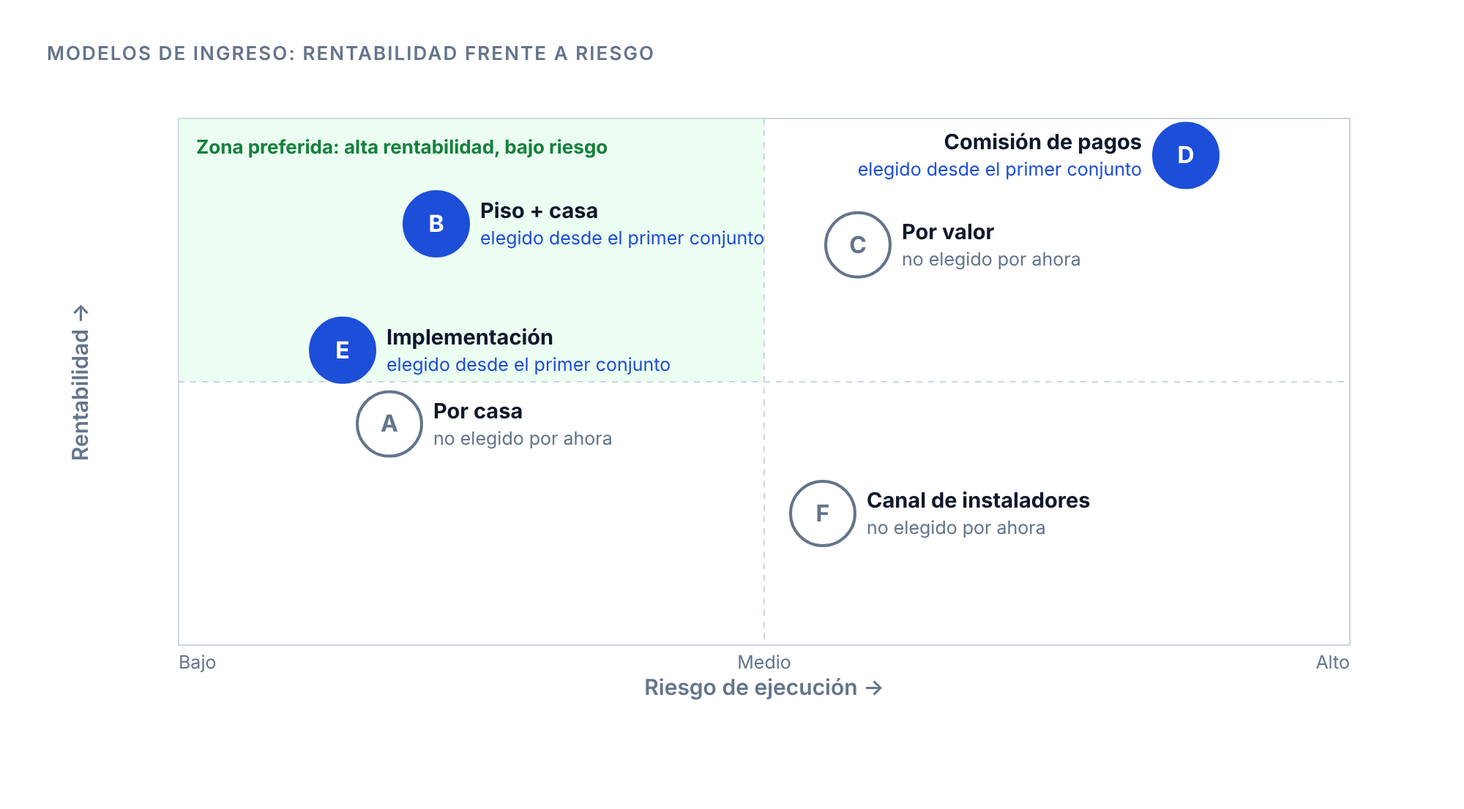
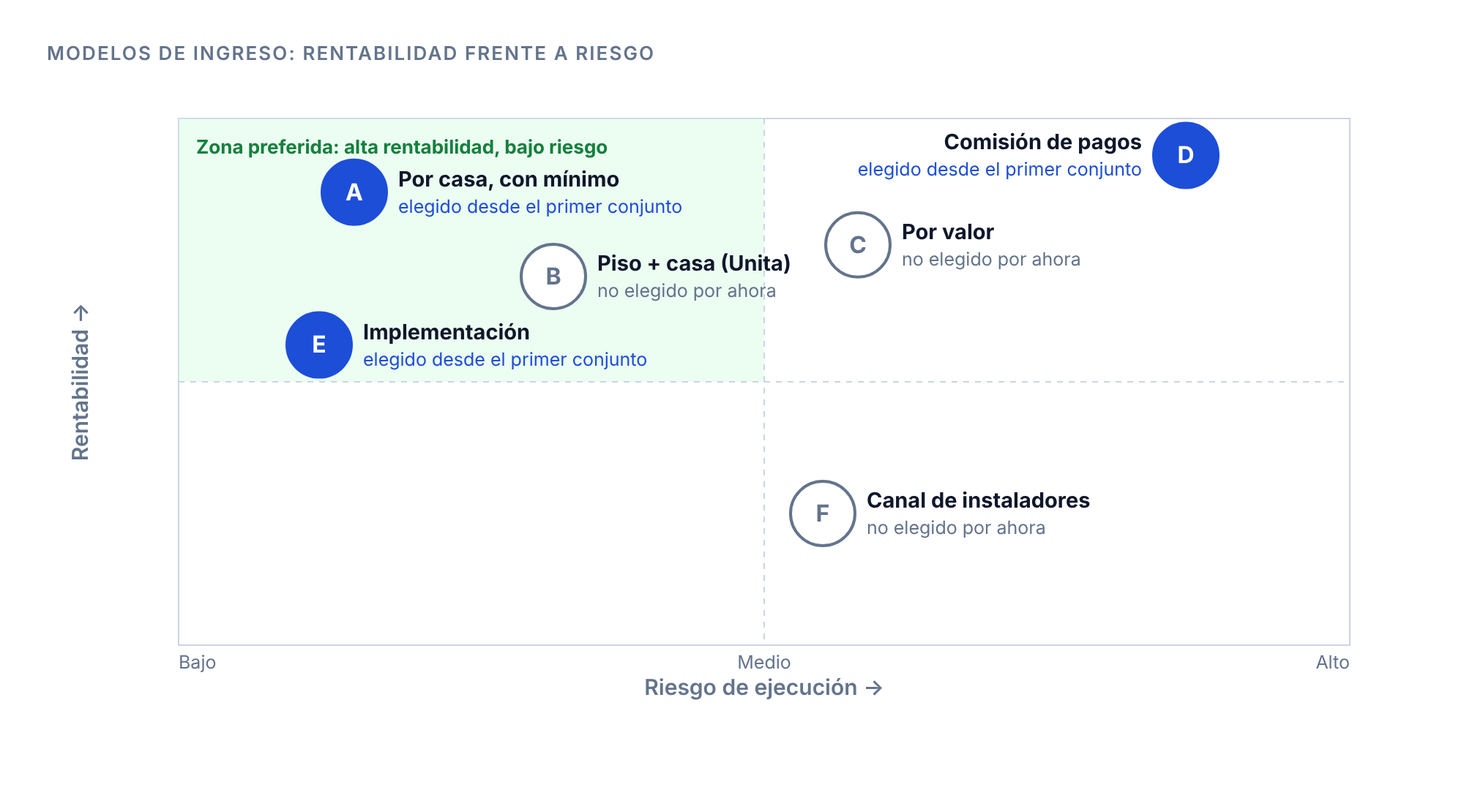
Roadmap: precio propio por casa con mínimo y propuesta D-013
$16.000 por casa al mes con mínimo de $1.200.000 por conjunto, en vez
del precio de Unita. Actualiza el apartado 2.9, el modelo elegido,
el presupuesto y las figuras 10, 12, 13, 14, 18, 19 y 20.

Claude-Session: https://claude.ai/code/session_012DQwra82ZAV2m5H2koZjXH

Changed region(s): [[0.217, 0.1844, 0.558, 0.3996], [0.186, 0.3689, 0.465, 0.4919], [0.248, 0.4919, 0.403, 0.5841]]

diff --git a/eafit/2026-11-roadmap-estrategia/entrega/figuras/fuente-figuras.html b/eafit/2026-11-roadmap-estrategia/entrega/figuras/fuente-figuras.html
@@ -126,7 +126,7 @@ svg text{font-family:Inter,sans-serif}
 <!-- 21 PESO EN LA CUOTA -->
 <div class="fig" id="f21">
  <div class="t">Cuánto pesa cada costo en lo que recauda el conjunto (% de la cuota)</div>
- <svg id="sv21" width="936" height="295"></svg>
+ <svg id="sv21" width="936" height="200"></svg>
 </div>
 
 <!-- 12 EXPANSION -->
@@ -259,18 +259,20 @@ el(s,'line',{x1:L+W/2,y1:T,x2:L+W/2,y2:T+H,stroke:C.line,'stroke-dasharray':'4 4
 tx(s,L+W/2,T+H+34,'Riesgo de ejecución →',{a:'middle',fw:600,fill:C.mut});
 el(s,'text',{x:28,y:T+H/2,'font-size':15,fill:C.mut,'font-weight':600,'text-anchor':'middle',transform:`rotate(-90 28 ${T+H/2})`},'Rentabilidad →');
 ['Bajo','Medio','Alto'].forEach((t,i)=>tx(s,L+W*(i*.5),T+H+16,t,{a:i==0?'start':i==1?'middle':'end',fs:12.5,fill:C.mut}));
-const P=[['A','Por casa',.18,.42,0],['B','Piso + casa',.22,.80,1],['C','Por valor',.58,.76,0],['D','Comisión de pagos',.86,.93,1],['E','Implementación',.14,.56,1],['F','Canal de instaladores',.55,.25,0]];
+const P=[['A','Por casa, con mínimo',.15,.86,1],['B','Piso + casa (Unita)',.32,.70,0],['C','Por valor',.58,.76,0],['D','Comisión de pagos',.86,.93,1],['E','Implementación',.12,.57,1],['F','Canal de instaladores',.55,.25,0]];
 P.forEach(([k,n,rx,ry,ch])=>{const x=L+rx*W,y=T+(1-ry)*H;const col=ch==1?C.ac:ch==2?C.ac2:C.mut;el(s,'circle',{cx:x,cy:y,r:22,fill:ch?col:'#fff',stroke:col,'stroke-width':2});tx(s,x,y+1,k,{a:'middle',b:'middle',fw:700,fill:ch?'#fff':col,fs:16});const lf=k=='D';const ox=lf?-30:30,an=lf?'end':'start';tx(s,x+ox,y-4,n,{fw:700,fill:C.ink,fs:14.5,a:an});tx(s,x+ox,y+14,ch==1?'elegido desde el primer conjunto':ch==2?'elegido desde la etapa 03':'no elegido por ahora',{fs:12.5,fill:ch?col:C.mut,a:an})});})();
 
 // 10 ancla
-(()=>{const s=document.getElementById('sv10');const L=250,W=520,max=20e6;const R=[['Puesto de vigilancia 24 h',17.1e6,19.6e6,C.mut],['KINO · Refugio (400 casas)',5.91e6,0,C.ac],['KINO · Villas (100 casas)',2.64e6,0,C.ac]];
+(()=>{const s=document.getElementById('sv10');const L=250,W=520,max=20e6;const R=[['Puesto de vigilancia 24 h',17.1e6,19.6e6,C.mut],['KINO · Refugio (400 casas)',6.4e6,0,C.ac],['KINO · Villas (100 casas)',1.6e6,0,C.ac]];
 R.forEach((r,i)=>{const y=20+i*66;tx(s,L-14,y+22,r[0],{a:'end',b:'middle',fw:600,fill:C.ink});el(s,'rect',{x:L,y,width:r[1]/max*W,height:44,rx:6,fill:r[3]});if(r[2])el(s,'rect',{x:L+r[1]/max*W,y,width:(r[2]-r[1])/max*W,height:44,rx:0,fill:r[3],opacity:.4});tx(s,L+(r[2]||r[1])/max*W+10,y+22,r[2]?`$${M(r[1])} a $${M(r[2])} M`:`$${M(r[1])} M`,{b:'middle',fw:700,fill:C.ink})});
-tx(s,20,236,'Villas paga el 15 % de lo que cuesta un puesto de vigilancia. Fuentes: Noticias RCN y El Espectador (2026); tarifas de KINO del capítulo 2.',{fs:13,fill:C.mut});})();
+tx(s,20,236,'Villas paga KINO con el 9 % de lo que cuesta un puesto de vigilancia. Fuentes: Noticias RCN y El Espectador (2026); precio de KINO del capítulo 2.',{fs:13,fill:C.mut});})();
 
-// 11 precio stacked
-(()=>{const s=document.getElementById('sv11');const L=250,W=560,max=6.2e6,piso=1.55e6;const R=[['Villas Campestres · 100 casas',100],['Conjunto nuevo · 200 casas',200],['Refugio Campestre · 400 casas',400]];
-R.forEach((r,i)=>{const y=20+i*62;const c=r[1]*10900;tx(s,L-14,y+21,r[0],{a:'end',b:'middle',fw:600,fill:C.ink});el(s,'rect',{x:L,y,width:piso/max*W,height:42,fill:C.ink,rx:4});el(s,'rect',{x:L+piso/max*W,y,width:c/max*W,height:42,fill:C.ac2,rx:4});tx(s,L+(piso+c)/max*W+10,y+21,`$${fmt(piso+c)}`,{b:'middle',fw:700,fill:C.ink})});
-el(s,'rect',{x:L,y:212,width:14,height:14,fill:C.ink});tx(s,L+20,224,'Piso por conjunto: $1.550.000',{fs:13.5});el(s,'rect',{x:L+260,y:212,width:14,height:14,fill:C.ac2});tx(s,L+280,224,'Casas construidas × $10.900',{fs:13.5});})();
+// 11 precio KINO frente a Unita
+(()=>{const s=document.getElementById('sv11');const L=250,W=560,max=7e6;const R=[['Villas Campestres · 100 casas',100],['Conjunto nuevo · 200 casas',200],['Refugio Campestre · 400 casas',400]];
+R.forEach((r,i)=>{const y=14+i*66;const k=Math.max(1.2e6,r[1]*16000),u=1.55e6+r[1]*10900;tx(s,L-14,y+25,r[0],{a:'end',b:'middle',fw:600,fill:C.ink});
+el(s,'rect',{x:L,y,width:k/max*W,height:24,fill:C.ac,rx:4});tx(s,L+k/max*W+10,y+12,'KINO $'+fmt(k),{b:'middle',fw:700,fill:C.ink,fs:14});
+el(s,'rect',{x:L,y:y+28,width:u/max*W,height:20,fill:C.line,rx:4});tx(s,L+u/max*W+10,y+38,'Unita $'+fmt(u),{b:'middle',fill:C.mut,fs:13})});
+tx(s,20,232,'KINO: $16.000 por casa al mes, mínimo $1.200.000. Unita: $1.550.000 por conjunto + $10.900 por casa. KINO es más barato hasta 304 casas.',{fs:13,fill:C.mut});})();
 
 // 12 expansion
 (()=>{const s=document.getElementById('sv12');arrowDef(s,'a12');const L=150,B=380,W=740,H=340;
@@ -329,7 +331,7 @@ parts.forEach((p,j)=>{const x=L+j*165;el(s,'rect',{x,y:226,width:14,height:14,fi
 tx(s,20,272,'El trabajo de los socios vale $3.120.000 al mes, pero hoy no sale de la caja. La alternativa barata es la del apartado 5.5 (en efectivo).',{fs:13,fill:C.mut});})();
 
 // 15 escenarios
-(()=>{const s=document.getElementById('sv15');const L=70,B=300,H=260,max=300;const sc=[['Conservador',145.45],['Base',256.3],['Optimista',284.05]];const ce=40.14,cs=109.58;
+(()=>{const s=document.getElementById('sv15');const L=70,B=300,H=260,max=300;const sc=[['Conservador',134.1],['Base',231.7],['Optimista',256.8]];const ce=40.14,cs=109.58;
 [0,50,100,150,200,250,300].forEach(v=>{const y=B-v/max*H;el(s,'line',{x1:L,y1:y,x2:900,y2:y,stroke:C.soft});tx(s,L-10,y,String(v),{a:'end',b:'middle',fs:12.5,fill:C.mut})});
 sc.forEach((r,i)=>{const x=L+60+i*260;const h=r[1]/max*H;el(s,'rect',{x,y:B-h,width:110,height:h,fill:i==1?C.ac:C.acs,stroke:C.ac,rx:4});tx(s,x+55,B-h-10,'$'+r[1].toFixed(1).replace('.',',')+' M',{a:'middle',fw:700,fill:C.ink});tx(s,x+55,B+22,r[0],{a:'middle',fw:i==1?700:600,fill:C.ink})});
 let lg=0;const ln=(v,c,t)=>{const y=B-v/max*H;el(s,'line',{x1:L,y1:y,x2:900,y2:y,stroke:c,'stroke-width':2.2,'stroke-dasharray':'7 5'});el(s,'line',{x1:L+lg,y1:B+48,x2:L+lg+28,y2:B+48,stroke:c,'stroke-width':2.2,'stroke-dasharray':'7 5'});tx(s,L+lg+36,B+53,t,{fs:13.5,fw:700,fill:c});lg+=330};
@@ -338,8 +340,8 @@ tx(s,L,B+84,'Los tres escenarios cubren los dos costos. El base cumple la meta d
 
 // 16 flujo acumulado
 (()=>{const s=document.getElementById('sv16');const ms=['nov','dic','ene','feb','mar','abr','may','jun','jul','ago','sep','oct','nov','dic'];
-const E=[-3981735,-3563470,-6345205,-76940,6191325,19589590,36917855,58176120,83364385,112482650,138400915,164319180,190237445,216155710];
-const S=[-7569735,-13939470,-20309205,-17628940,-14948675,-8338410,2201855,16672120,35072385,57402650,79732915,102063180,124393445,146723710];
+const E=[-3981735,-3563470,-6345205,-626940,5091325,17409590,33127855,52246120,74764385,100682650,123400915,146119180,168837445,191555710];
+const S=[-7569735,-13939470,-20309205,-18178940,-16048675,-10518410,-1588145,10742120,26472385,45602650,64732915,83863180,102993445,122123710];
 const L=80,T=20,W=740,H=330,min=-50e6,max=250e6;const y=v=>T+(max-v)/(max-min)*H;const x=i=>L+i*(W/13);
 [-50,0,50,100,150,200,250].forEach(v=>{el(s,'line',{x1:L,y1:y(v*1e6),x2:L+W,y2:y(v*1e6),stroke:v==0?C.ink:C.soft,'stroke-width':v==0?1.5:1});tx(s,L-10,y(v*1e6),String(v),{a:'end',b:'middle',fs:12.5,fill:C.mut})});
 ms.forEach((m,i)=>tx(s,x(i),T+H+20,m,{a:'middle',fs:12.5,fill:C.mut}));tx(s,x(0.5),T+H+40,'2026',{a:'middle',fs:12,fw:700,fill:C.ink});tx(s,x(8),T+H+40,'2027',{a:'middle',fs:12,fw:700,fill:C.ink});
@@ -351,14 +353,14 @@ tx(s,x(2),y(S[2])+24,'punto más bajo: '+M(S[2]),{fs:12.5,fill:C.ba,fw:600,a:'mi
 el(s,'line',{x1:L,y1:T+H+58,x2:L+24,y2:T+H+58,stroke:C.ok,'stroke-width':3});tx(s,L+30,T+H+62,'En efectivo',{fs:13.5});el(s,'line',{x1:L+150,y1:T+H+58,x2:L+174,y2:T+H+58,stroke:C.ba,'stroke-width':3});tx(s,L+180,T+H+62,'Sostenimiento (incluye el trabajo de los socios)',{fs:13.5});})();
 
 // 17 equilibrio
-(()=>{const s=document.getElementById('sv17');const L=280,W=560,max=30e6;const R=[['Villas Campestres sola',2.74e6],['Villas + Refugio',9.05e6],['Villas + Refugio + 5 nuevos',28.7e6]];
-R.forEach((r,i)=>{const yy=20+i*64;tx(s,L-14,yy+22,r[0],{a:'end',b:'middle',fw:600,fill:C.ink});el(s,'rect',{x:L,y:yy,width:r[1]/max*W,height:44,rx:5,fill:C.ac});const lx=L+r[1]/max*W+10;tx(s,i==2?lx-20:lx+ (i==0?60:0),yy+22,'$'+M(r[1])+' M',{b:'middle',fw:700,fill:i==2?'#fff':C.ink,a:i==2?'end':'start'})});
+(()=>{const s=document.getElementById('sv17');const L=280,W=560,max=27e6;const R=[['Villas Campestres sola',1.7e6],['Villas + Refugio',8.5e6],['Villas + Refugio + 5 nuevos',25.5e6]];
+R.forEach((r,i)=>{const yy=20+i*64;tx(s,L-14,yy+22,r[0],{a:'end',b:'middle',fw:600,fill:C.ink});el(s,'rect',{x:L,y:yy,width:r[1]/max*W,height:44,rx:5,fill:C.ac});const lx=L+r[1]/max*W+10;tx(s,i==2?lx-20:(i==0?L+150:lx),yy+22,'$'+M(r[1])+' M',{b:'middle',fw:700,fill:i==2?'#fff':C.ink,a:i==2?'end':'start'})});
 const ln=(v,c,t,o,an)=>{const x=L+v/max*W;el(s,'line',{x1:x,y1:10,x2:x,y2:214,stroke:c,'stroke-width':2.2,'stroke-dasharray':'6 4'});tx(s,x,236+o,t,{a:an,fs:13,fw:700,fill:c})};
 ln(2781735,C.ok,'Efectivo: $2,8 M',0,'end');ln(6369735,C.ba,'Sostenimiento: $6,4 M',0,'start');
 tx(s,20,272,'Villas y Refugio juntos cubren los dos costos. Por eso la penetración de enero es la tarea con más efecto.',{fs:13,fill:C.mut});})();
 
 // 21 peso en la cuota
-(()=>{const s=document.getElementById('sv21');const L=330,W=480,max=50;const R=[['Puesto de vigilancia · Villas (100 casas)',38,43.6,C.mut],['Puesto de vigilancia · Refugio (400 casas)',9.5,10.9,C.mut],['KINO · Villas',5.9,0,C.ac],['KINO · conjunto nuevo (200 casas)',4.1,0,C.ac],['KINO · Refugio',3.3,0,C.ac]];
+(()=>{const s=document.getElementById('sv21');const L=330,W=480,max=50;const R=[['Puesto de vigilancia · Villas (100 casas)',38,43.6,C.mut],['Puesto de vigilancia · Refugio (400 casas)',9.5,10.9,C.mut],['KINO · cualquier conjunto',3.6,0,C.ac]];
 R.forEach((r,i)=>{const y=14+i*50;tx(s,L-14,y+17,r[0],{a:'end',b:'middle',fw:600,fill:C.ink,fs:14});el(s,'rect',{x:L,y,width:r[1]/max*W,height:34,rx:5,fill:r[3]});if(r[2])el(s,'rect',{x:L+r[1]/max*W,y,width:(r[2]-r[1])/max*W,height:34,fill:r[3],opacity:.4});const v=r[2]?`${String(r[1]).replace('.',',')} % a ${String(r[2]).replace('.',',')} %`:`${String(r[1]).replace('.',',')} %`;tx(s,L+(r[2]||r[1])/max*W+10,y+17,v,{b:'middle',fw:700,fill:C.ink})});
-tx(s,20,280,'Parte de lo que recauda el conjunto con una cuota de $450.000 por casa. Vigilancia: $17,1 a $19,6 M al mes (Noticias RCN y El Espectador, 2026).',{fs:13,fill:C.mut});})();
+tx(s,20,180,'Parte de lo que recauda el conjunto con una cuota de $450.000 por casa. Vigilancia: $17,1 a $19,6 M al mes (Noticias RCN y El Espectador, 2026).',{fs:13,fill:C.mut});})();
 </script></body></html>

diff --git a/eafit/2026-11-roadmap-estrategia/entrega/KINO_Roadmap-estrategia-presupuesto.md b/eafit/2026-11-roadmap-estrategia/entrega/KINO_Roadmap-estrategia-presupuesto.md
@@ -17,10 +17,10 @@ KINO es una plataforma de control de acceso para conjuntos cerrados. Hoy opera e
 | ¿Qué resolvemos? | Quien conoce a la visita (el residente) no tiene autoridad para dejarla entrar, y quien tiene autoridad (portería) no la conoce |
 | ¿A quién vendemos? | Solo a la administración del conjunto. Primero, a conjuntos campestres del oriente antioqueño con hardware HikCentral |
 | ¿En qué orden crecemos? | Villas Campestres y Refugio Campestre en diciembre de 2026 y enero de 2027; 5 conjuntos nuevos del oriente antioqueño en el primer trimestre de 2027; después, el Valle de Aburrá |
-| ¿Cómo cobramos? | Piso por conjunto + cobro por casa construida + implementación única + comisión por cada pago de la cuota en la app, desde el primer conjunto |
+| ¿Cómo cobramos? | Cobro por casa construida, con un mínimo por conjunto + implementación única + comisión por cada pago de la cuota en la app, desde el primer conjunto |
 | ¿Cuándo está lista la app? | En diciembre de 2026, completa y con pagos. En enero de 2027, el 80 % de las casas de Villas y Refugio la usa |
-| ¿Cuánto cobramos? | $1.550.000 por conjunto + $10.900 por casa al mes, entre el 3,3 % y el 5,9 % de la cuota de administración |
-| ¿Cuánto cuesta y cuándo se sostiene? | $2,8 millones al mes en efectivo ($1,4 millones con la alternativa más barata). Villas y Refugio lo cubren desde febrero de 2027. Escenario base a diciembre de 2027: +$216 millones en efectivo |
+| ¿Cuánto cobramos? | $16.000 por casa al mes, con un mínimo de $1.200.000 por conjunto: el 3,6 % de la cuota de administración |
+| ¿Cuánto cuesta y cuándo se sostiene? | $2,8 millones al mes en efectivo ($1,4 millones con la alternativa más barata). Villas y Refugio lo cubren desde febrero de 2027. Escenario base a diciembre de 2027: +$192 millones en efectivo |
 
 ![Figura 1. Mapa del documento. Cada capítulo responde una pregunta.](figuras/f01.png){width=100%}
 
@@ -84,7 +84,7 @@ El recorrido muestra quién hace qué, desde que el residente abre la app hasta 
 
 # 2. Salida al mercado
 
-> **En una frase.** KINO vende a la administración. Primero entra completo en Villas Campestres y Refugio Campestre, luego cierra 5 conjuntos nuevos del oriente antioqueño, y cobra por conjunto, por casa y por cada pago de la cuota.
+> **En una frase.** KINO vende a la administración. Primero entra completo en Villas Campestres y Refugio Campestre, luego cierra 5 conjuntos nuevos del oriente antioqueño, y cobra por casa y por cada pago de la cuota.
 
 ## 2.1 Quién compra y quién decide
 
@@ -160,8 +160,8 @@ El equipo evaluó seis formas de cobrar. La figura 10 las ubica por rentabilidad
 
 | Modelo | Cómo cobra | Rentabilidad | Riesgo |
 |---|---|---|---|
-| A · Por casa | Una tarifa por casa construida | Media: un conjunto pequeño casi no paga | Bajo |
-| **B · Piso + casa** | Una tarifa fija por conjunto más una tarifa por casa | Alta: el piso cubre el soporte de cada conjunto | Bajo |
+| **A · Por casa, con mínimo** | Una tarifa por casa construida y un mínimo por conjunto | Alta: el mínimo cubre el soporte del conjunto pequeño | Bajo |
+| B · Piso + casa | Una tarifa fija por conjunto más una tarifa por casa (el modelo de Unita [5]) | Alta | Bajo, pero castiga al conjunto pequeño |
 | C · Por valor | Una fracción del costo de un puesto de vigilancia | Alta | Medio: exige probar el ahorro en portería |
 | **D · Comisión de pagos** | Margen sobre la pasarela cuando el residente paga la cuota de administración en la app | La más alta a escala: crece sin trabajo extra | Alto: exige alianza con la pasarela y el módulo de pagos |
 | **E · Implementación** | Cobro único al empezar | Media: da caja al inicio y filtra clientes | Bajo |
@@ -171,7 +171,7 @@ Para el modelo D, la pasarela Wompi cobra 2,65 % + $700 + IVA en pagos en línea
 
 **Descartados.** Cobrar a la visita (recibe el KEY sin cuenta). Cobrar al residente (solo compra la administración). Marca blanca (KINO mantiene su marca). Vender datos de ingresos (Ley 1581 de 2012 [17]).
 
-> **Modelo elegido.** B + D + E desde el primer conjunto.
+> **Modelo elegido.** A con mínimo + D + E desde el primer conjunto.
 
 **Costo marginal.** Una casa más casi no sube el costo de KINO: la infraestructura y el trabajo son fijos (capítulo 5). Después del punto de equilibrio, cada peso nuevo es margen (inferido).
 
@@ -197,27 +197,29 @@ El residente paga la cuota de administración desde la app. El dinero va a la cu
 
 ## 2.9 Precio
 
-> **Precio.** $1.550.000 al mes por conjunto + $10.900 al mes por casa construida + $3.200.000 de implementación, una vez + $2.000 por cada pago de la cuota en la app (margen por decidir).
+> **Precio.** $16.000 al mes por casa construida, con un mínimo de $1.200.000 al mes por conjunto + $3.200.000 de implementación, una vez + $2.000 por cada pago de la cuota en la app (margen por decidir).
 
 El precio se justifica con tres referencias:
 
 | Referencia | Qué dice | Dato |
 |---|---|---|
-| Piso | Lo que cuesta atender a los conjuntos | $2,8 millones al mes en efectivo; $6,4 millones con el trabajo de los socios (capítulo 5) |
+| Costo | Lo que cuesta atender a los conjuntos | $2,8 millones al mes en efectivo; $6,4 millones con el trabajo de los socios (capítulo 5) |
 | Techo | Lo que el residente ya paga y lo que el conjunto gasta en portería | Cuota de administración promedio de Villas y Refugio: $450.000 al mes por casa [9]. Un puesto de vigilancia 24 horas: $17,1 a $19,6 millones al mes [10] [11] |
-| Ancla | El precio de su competidor directo, Unita | $1.550.000 al mes por conjunto + $10.900 al mes por casa [5] |
+| Ancla | El precio de su competidor directo, Unita | $1.550.000 al mes por conjunto + $10.900 al mes por casa [5]. KINO no lo copia: cobra solo por casa |
 
-KINO cobra lo mismo que Unita en piso y casa, y agrega lo que Unita no tiene: el KEY sin cuenta para la visita y la integración probada con el hardware del conjunto (apartado 1.3).
+**Por qué no copia a Unita.** Unita cobra un piso fijo más una tarifa por casa [5]. KINO cobra solo por casa, con un mínimo que cubre el soporte de un conjunto pequeño (inferido). El residente lo entiende en una línea: el 3,6 % de su cuota. Además, KINO da lo que Unita no tiene: el KEY sin cuenta para la visita y la integración probada con el hardware del conjunto (apartado 1.3).
 
-![Figura 12. Cuánto paga cada conjunto al mes con el precio de partida.](figuras/f10.png){width=100%}
-
-**Cuánto pesa KINO en la cuota.** Con una cuota de $450.000, KINO cuesta entre el 3,3 % y el 5,9 % de lo que paga cada casa. En lo que recauda cada conjunto, un puesto de vigilancia pesa entre el 9,5 % (Refugio) y el 44 % (Villas) (figura 14).
-
-| Conjunto | KINO al mes | KINO por casa | Parte de la cuota de $450.000 |
+| Conjunto | KINO al mes | Unita al mes [5] | Diferencia |
 |---|---|---|---|
-| Villas Campestres (100 casas) | $2.640.000 | $26.400 | 5,9 % |
-| Conjunto nuevo (200 casas, supuesto) | $3.730.000 | $18.650 | 4,1 % |
-| Refugio Campestre (400 casas) | $5.910.000 | $14.775 | 3,3 % |
+| Villas Campestres (100 casas) | $1.600.000 | $2.640.000 | −39 % |
+| Conjunto nuevo (200 casas, supuesto) | $3.200.000 | $3.730.000 | −14 % |
+| Refugio Campestre (400 casas) | $6.400.000 | $5.910.000 | +8 % |
+
+KINO es más barato hasta 304 casas y un poco más caro por encima. El conjunto grande recibe más visitas y colaboradores, así que recibe más valor (inferido). El mínimo de $1.200.000 aplica a conjuntos de menos de 75 casas.
+
+![Figura 12. Cuánto paga cada conjunto al mes con el precio de KINO.](figuras/f10.png){width=100%}
+
+**Cuánto pesa KINO en la cuota.** Con una cuota de $450.000, KINO cuesta el 3,6 % de lo que paga cada casa, en cualquier conjunto. En lo que recauda cada conjunto, un puesto de vigilancia pesa entre el 9,5 % (Refugio) y el 44 % (Villas) (figura 14).
 
 ![Figura 13. KINO frente al costo de un puesto de vigilancia.](figuras/f11.png){width=100%}
 
@@ -227,8 +229,8 @@ KINO cobra lo mismo que Unita en piso y casa, y agrega lo que Unita no tiene: el
 
 **Lectura (inferido).**
 
-1. El cobro por casa ($10.900) es el 2,4 % de la cuota. Es un costo bajo frente a lo que la casa ya paga en vigilancia.
-2. En un conjunto pequeño, el piso pesa más: Villas paga el 5,9 % de la cuota y Refugio el 3,3 %. Un piso más bajo para conjuntos de menos de 150 casas es una opción que se valida en la fase 6.
+1. El 3,6 % de la cuota es igual para todo conjunto: el precio no castiga al conjunto pequeño.
+2. Frente a un puesto de vigilancia, Villas paga KINO con el 9 % de lo que cuesta el puesto y Refugio con cerca del 35 %.
 3. El costo de portería propio de Villas y Refugio todavía no está. Cuando llegue, reemplaza la cifra de mercado del techo.
 
 # 3. Expansión
@@ -316,7 +318,7 @@ Fechas fijadas por el equipo el 9 de noviembre de 2026 [9]. La fecha de H4 es un
 
 # 5. Presupuesto
 
-> **En una frase.** KINO cuesta $2,8 millones al mes en efectivo. Villas y Refugio cubren ese costo desde febrero de 2027. Con los 5 conjuntos nuevos, el escenario base cierra diciembre de 2027 con +$216 millones en efectivo. Una alternativa más barata baja el costo a $1,4 millones al mes.
+> **En una frase.** KINO cuesta $2,8 millones al mes en efectivo. Villas y Refugio cubren ese costo desde febrero de 2027. Con los 5 conjuntos nuevos, el escenario base cierra diciembre de 2027 con +$192 millones en efectivo. Una alternativa más barata baja el costo a $1,4 millones al mes.
 
 Horizonte: noviembre de 2026 a diciembre de 2027 (14 meses). Fuente de dinero: capital propio de los socios [9].
 
@@ -416,19 +418,19 @@ Cinco cambios bajan el costo en efectivo a la mitad sin quitarle al proyecto nad
 
 Precio del apartado 2.9. Villas Campestres no paga implementación porque ya está implementada. Con el 50 % de las casas pagando en la app:
 
-| Conjunto | Piso + casas | Comisión de pagos | Al mes |
+| Conjunto | Casas × $16.000 | Comisión de pagos | Al mes |
 |---|---|---|---|
-| Villas Campestres (100 casas) | 2.640.000 | 50 × 2.000 = 100.000 | 2.740.000 |
-| Refugio Campestre (400 casas) | 5.910.000 | 200 × 2.000 = 400.000 | 6.310.000 |
-| Conjunto nuevo (200 casas) | 3.730.000 | 100 × 2.000 = 200.000 | 3.930.000 |
+| Villas Campestres (100 casas) | 1.600.000 | 50 × 2.000 = 100.000 | 1.700.000 |
+| Refugio Campestre (400 casas) | 6.400.000 | 200 × 2.000 = 400.000 | 6.800.000 |
+| Conjunto nuevo (200 casas) | 3.200.000 | 100 × 2.000 = 200.000 | 3.400.000 |
 
 Los escenarios cambian cuántos conjuntos nuevos entran, desde cuándo y cuántas casas pagan en la app. El precio es el mismo.
 
 | Escenario | Conjuntos nuevos | Pagos en la app | Comisión a dic 2027 | Ingreso a dic 2027 |
 |---|---|---|---|---|
-| Conservador | 2, en julio y septiembre de 2027 | 30 % | 4.500.000 | 145.450.000 |
-| **Base** | **5, uno por mes de abril a agosto de 2027** | **50 %** | **12.500.000** | **256.300.000** |
-| Optimista | 5, uno por mes de marzo a julio de 2027 | 80 % | 21.600.000 | 284.050.000 |
+| Conservador | 2, en julio y septiembre de 2027 | 30 % | 4.500.000 | 134.100.000 |
+| **Base** | **5, uno por mes de abril a agosto de 2027** | **50 %** | **12.500.000** | **231.700.000** |
+| Optimista | 5, uno por mes de marzo a julio de 2027 | 80 % | 21.600.000 | 256.800.000 |
 
 Los tres escenarios incluyen a Villas y Refugio desde febrero de 2027 y una implementación de $3.200.000 por cada conjunto nuevo y por Refugio.
 
@@ -438,22 +440,22 @@ Los tres escenarios incluyen a Villas y Refugio desde febrero de 2027 y una impl
 
 | Escenario | Ingresos | En efectivo | Sostenimiento |
 |---|---|---|---|
-| Conservador | 145.450.000 | +105.305.710 | +45.473.710 |
-| **Base** | **256.300.000** | **+216.155.710** | **+146.723.710** |
-| Optimista | 284.050.000 | +243.905.710 | +174.473.710 |
+| Conservador | 134.100.000 | +93.955.710 | +34.123.710 |
+| **Base** | **231.700.000** | **+191.555.710** | **+122.123.710** |
+| Optimista | 256.800.000 | +216.655.710 | +147.223.710 |
 
-Sin impuestos. Con la alternativa más barata, el escenario base sube a +$235,9 millones en efectivo.
+Sin impuestos. Con la alternativa más barata, el escenario base sube a +$211,3 millones en efectivo.
 
-**Cuánto capital ponen los socios.** La figura 19 muestra el acumulado del escenario base mes a mes. La caja toca su punto más bajo en enero de 2027: −$6,3 millones, que pagan los socios con capital propio. Desde marzo de 2027 la caja queda en positivo. El sostenimiento llega a −$20,3 millones en enero y queda en positivo desde mayo de 2027.
+**Cuánto capital ponen los socios.** La figura 19 muestra el acumulado del escenario base mes a mes. La caja toca su punto más bajo en enero de 2027: −$6,3 millones, que pagan los socios con capital propio. Desde marzo de 2027 la caja queda en positivo. El sostenimiento llega a −$20,3 millones en enero y queda en positivo desde junio de 2027.
 
 ![Figura 19. Escenario base: resultado acumulado mes a mes.](figuras/f16.png){width=100%}
 
 | Tramo | Ingreso al mes | Qué pasa |
 |---|---|---|
 | nov 2026 a ene 2027 | 0, más la implementación de Refugio en diciembre | Desarrollo y piloto. La caja baja a −$6,3 millones |
-| feb y mar 2027 | 9.050.000 (Villas + Refugio) | La caja se recupera |
-| abr a ago 2027 | De 12.980.000 a 28.700.000 | Entra un conjunto nuevo cada mes |
-| sep a dic 2027 | 28.700.000 | Siete conjuntos pagan |
+| feb y mar 2027 | 8.500.000 (Villas + Refugio) | La caja se recupera |
+| abr a ago 2027 | De 11.900.000 a 25.500.000 | Entra un conjunto nuevo cada mes |
+| sep a dic 2027 | 25.500.000 | Siete conjuntos pagan |
 
 Si Figma Enterprise se paga por adelantado, la caja necesita unos $7,1 millones más al inicio.
 
@@ -463,13 +465,13 @@ Si Figma Enterprise se paga por adelantado, la caja necesita unos $7,1 millones 
 
 | Conjuntos que pagan | Ingreso al mes | Cubre el efectivo (2.781.735) | Cubre el sostenimiento (6.369.735) |
 |---|---|---|---|
-| Villas Campestres sola | 2.740.000 | No: 98 % | 43 % |
-| Villas + Refugio | 9.050.000 | Sí | Sí, con +2.680.265 |
-| Villas + Refugio + 5 nuevos | 28.700.000 | Sí | Sí, con +22.330.265 |
+| Villas Campestres sola | 1.700.000 | No: 61 % | 27 % |
+| Villas + Refugio | 8.500.000 | Sí | Sí, con +2.130.265 |
+| Villas + Refugio + 5 nuevos | 25.500.000 | Sí | Sí, con +19.130.265 |
 
 **Lectura (inferido).**
 
-1. Con las herramientas actuales, Villas sola ya no cubre la caja. Con la alternativa más barata ($1,4 millones), sí.
+1. Villas sola no cubre la caja con las herramientas actuales ($1,7 millones frente a $2,8 millones). Con la alternativa más barata ($1,4 millones), sí.
 2. Villas y Refugio juntos cubren el sostenimiento completo desde febrero de 2027. Por eso la penetración de enero (apartado 2.4) es la tarea con más efecto en el presupuesto.
 3. La comisión de pagos suma $12,5 millones en el escenario base, el 5 % del ingreso. Su valor está en que el residente vuelve a la app cada mes, no en el ingreso.
 4. El riesgo mayor es la capacidad: implementar 5 conjuntos entre abril y agosto pide el doble de horas de hoy.
@@ -511,7 +513,7 @@ No hay líneas base todavía. Cada indicador dice cómo se mide y una meta inici
 | Técnica | Errores de sincronización | Errores por semana | Umbral para pasar a la etapa 02 |
 | Negocio | Embudo comercial | Conjuntos contactados, propuestas y contratos | 5 contratos firmados al 31 de marzo de 2027 |
 | Negocio | Tasa de cierre | Propuestas aceptadas ÷ enviadas | Revisar al llegar a 5 propuestas |
-| Negocio | Ingreso recurrente mensual | Σ (piso + casas × cobro por casa) | $9,05 millones con Villas + Refugio; $28,7 millones con 7 conjuntos |
+| Negocio | Ingreso recurrente mensual | Σ (casas × $16.000, con mínimo) + comisión de pagos | $8,5 millones con Villas + Refugio; $25,5 millones con 7 conjuntos |
 | Negocio | Costo de adquisición | Gasto comercial ÷ conjuntos firmados | Línea base con el primer cierre |
 | Negocio | Recuperación de la implementación | Costo de implementación ÷ margen mensual del conjunto | Línea base con Refugio |
 

diff --git a/kino/canon/decisiones.md b/kino/canon/decisiones.md
@@ -223,3 +223,17 @@ Cambia el momento de la comisión de pagos de D-010. Alejandro: «El D también 
 **Regla.** El dinero de la cuota va de la pasarela a la cuenta del conjunto. KINO no recibe ni guarda el dinero del conjunto; recibe solo su margen.
 
 **Trazabilidad y HikCentral.** No cambia autor, motivo, vigencia ni autoridad del KEY. No toca la sincronización. Toca datos financieros de los residentes: exige la política de datos y el contrato con la pasarela antes de cobrar.
+
+## D-013 · Precio por casa con mínimo por conjunto · PROPUESTA (9 nov 2026)
+
+Cambia la parte de cobro mensual de D-010 (piso por conjunto + cobro por casa). Alejandro eligió la opción A en la tarjeta del chat del proyecto el 9 nov 2026, después de señalar que igualar el precio de Unita «parece como una copia del modelo de pricing de ellos». Siguen igual la implementación única y la comisión de pagos (D-012).
+
+| Opción | Precio al mes | Villas (100 casas) | Refugio (400 casas) | Costo |
+|---|---|---|---|---|
+| A (recomendada) | $16.000 por casa construida, mínimo $1.200.000 por conjunto | $1.600.000 | $6.400.000 | Villas sola no cubre el costo en efectivo; Villas y Refugio juntos cubren el sostenimiento |
+| B | Piso $1.000.000 + $8.000 por casa | $1.800.000 | $4.200.000 | Villas y Refugio apenas cubren el sostenimiento |
+| C | Igual a Unita: $1.550.000 + $10.900 por casa | $2.640.000 | $5.910.000 | Se lee como copia del competidor |
+
+**Por qué.** Con una cuota de administración de $450.000, $16.000 es el 3,6 % de lo que paga cada casa en cualquier conjunto. KINO queda más barato que Unita hasta 304 casas y no castiga al conjunto pequeño.
+
+**Trazabilidad y HikCentral.** No cambia el KEY, la autoridad del residente ni la sincronización.
